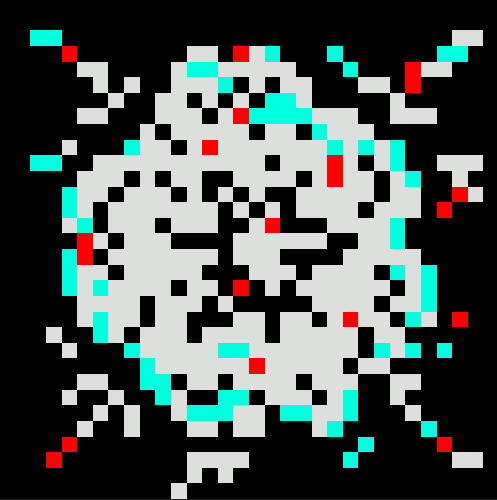
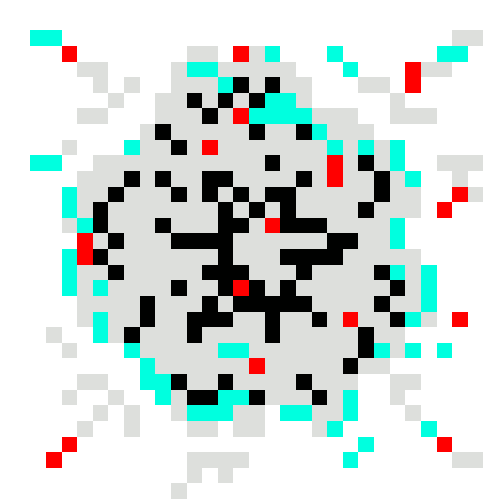
Jetzt kann man schießen und Invader zerstören

diff --git a/gaem.html b/gaem.html
@@ -29,6 +29,7 @@
         }
 
         let invaders = [];
+        let shots = [];
 
         document.onkeydown = function(e) {
             if (e.keyCode == 32) { // Leertaste gedrückt
@@ -67,8 +68,8 @@
             setInterval(update, 1000 / 144);
             setInterval(createInvaders, 3000);
             setInterval(checkCollision, 1000 / 144);
+            setInterval(checkForShot, 1000 / 144);
             draw();
-            // calculate
         }
 
         function checkCollision(){
@@ -91,6 +92,21 @@
                     console.log("Collision!!!");
                     invaders = invaders.filter(u => u != invader);
                 }
+                shots.forEach(function(shot){
+                    if (shot.x + shot.width > invader.x &&
+                        shot.y + shot.height > invader.y &&
+                        shot.x < invader.x &&
+                        shot.y < invader.y + invader.height
+                    ) {
+                        invader.hit = true;
+                        invader.img.src = 'img/boom.png';
+                        console.log('Collison!!!');
+
+                        setTimeout(() => {
+                            invaders = invader.filter(u => u != invader);
+                        }, 2000);
+                    }
+                });
             });
         }
 
@@ -107,6 +123,22 @@
             invaders.push(invader);
         }
 
+        function checkForShot(){
+            if (KEY_SPACE) {
+                let shot = {
+                    x: rocket.x + rocket.width / 2,
+                    y: rocket.y - 20,
+                    width: 10,
+                    height: 100,
+                    src: "img/shot.png",
+                    img: new Image()
+                };
+                shot.img.src = shot.src;
+                shots.push(shot);
+            }
+        }
+            
+
         function update() {
             if (KEY_LEFT) {
                 rocket.x -= 3;
@@ -117,7 +149,13 @@
             }
 
             invaders.forEach(function(invader){
-                invader.y += 2;
+                if (!invader.hit) {
+                    invader.y += 2;
+                }
+            });
+
+            shots.forEach(function(shot){
+                shot.y -= 15;
             });
         }
 
@@ -134,6 +172,9 @@
                 ctx.drawImage(invader.img, invader.x, invader.y, invader.width, invader.height);
             });
             requestAnimationFrame(draw)
+            shots.forEach(function(shot){
+                ctx.drawImage(shot.img, shot.x, shot.y, shot.width, shot.height);
+            });
         }
     </script>
 </head>
